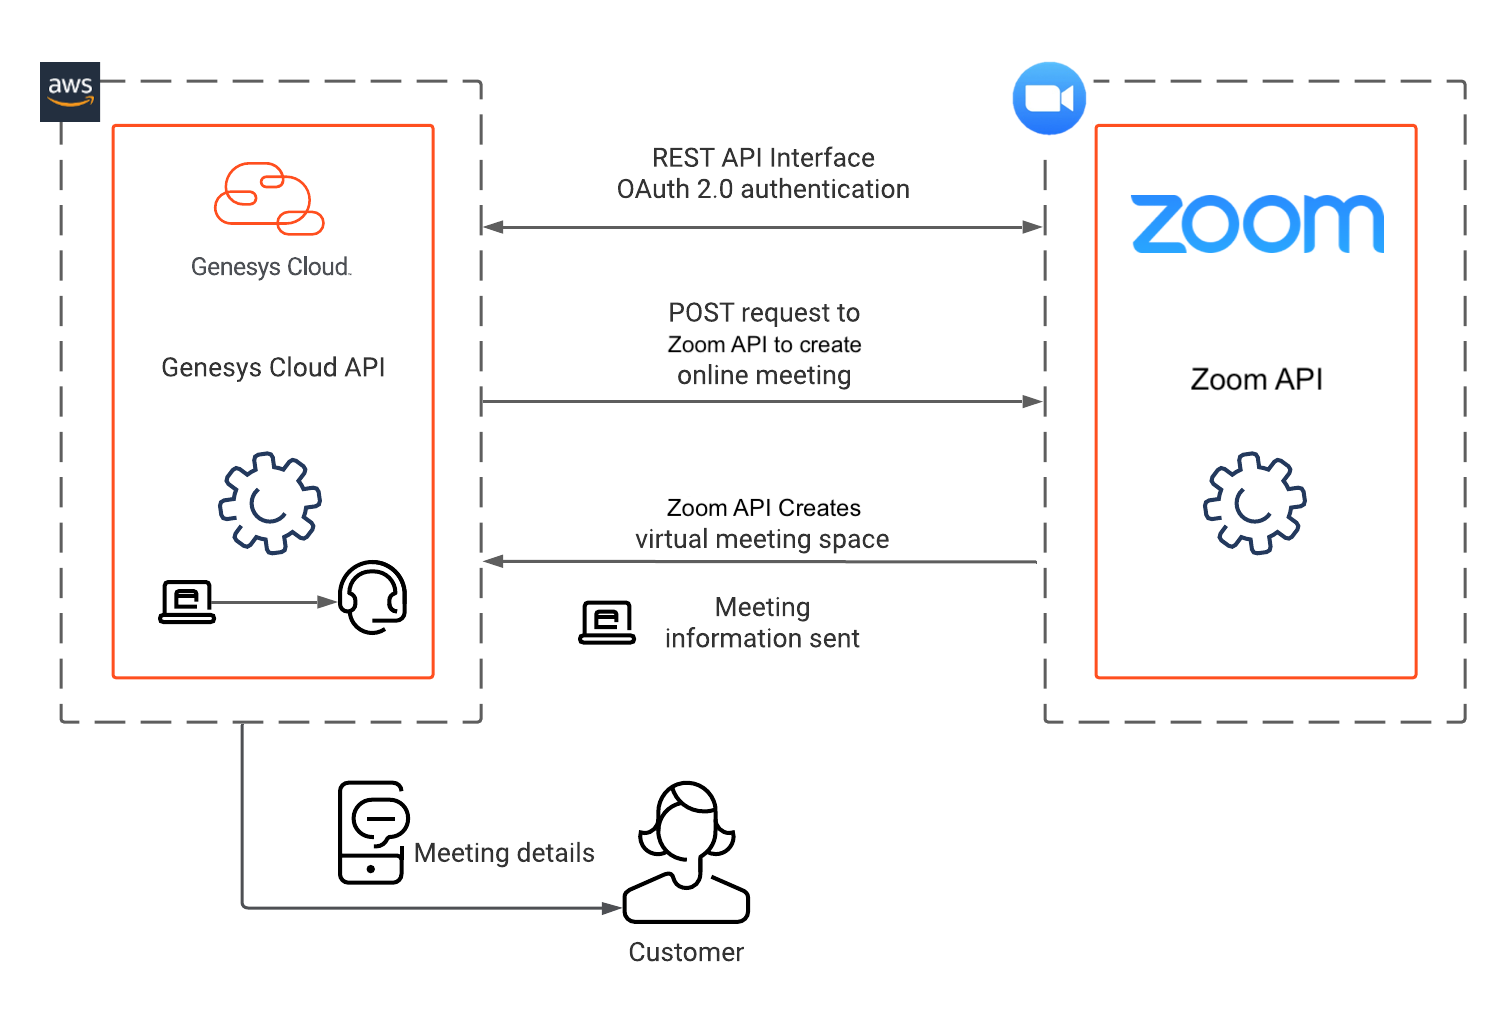
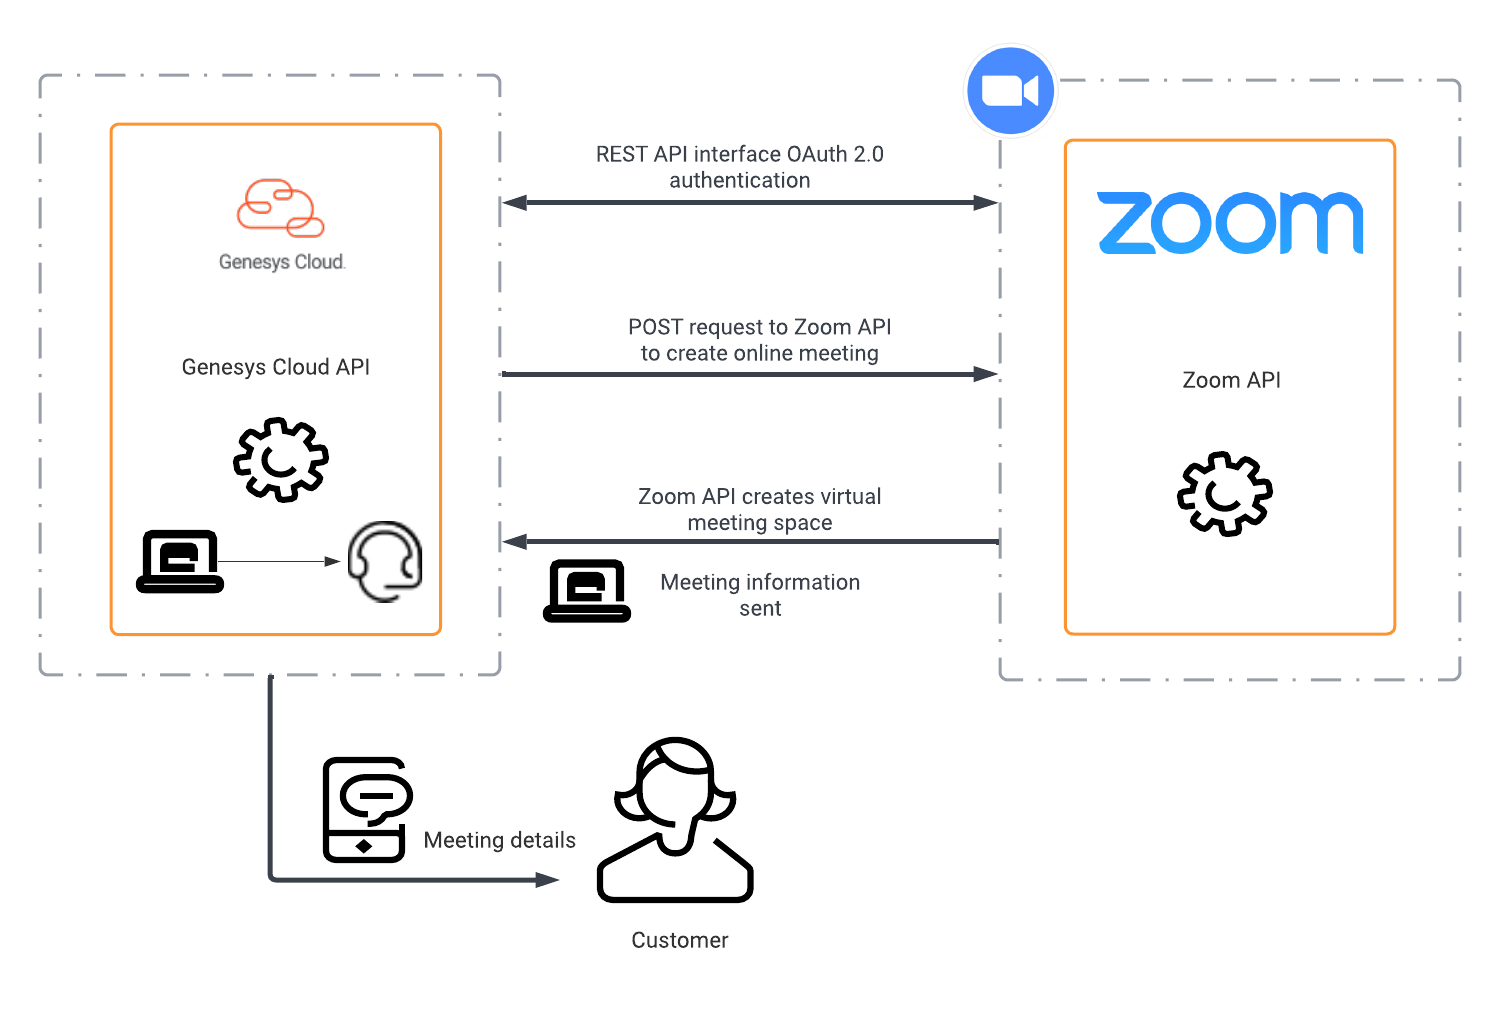
Updated README.md and index.md files, recreated zoom-architect.png file.

diff --git a/blueprint/index.md b/blueprint/index.md
@@ -1,12 +1,12 @@
 ---
-title: Set up Zoom meeting on Genesys Cloud
+title: Set up a Zoom meeting on Genesys Cloud
 author: yuri.yeti
 indextype: blueprint
 icon: blueprint
 image: images/6COpenScriptDropdown.png
 category: 6
 summary: |
-This Genesys Cloud Developer Blueprint describes how agents can schedule meetings with customers using Zoom and Genesys Cloud. Now agents can schedule a Zoom meeting right from Genesys Cloud. Genesys Cloud automatically sends the customer an SMS message with the meeting URL and opens Zoom for the agent. As long as the call is in a queue, it can be inbound or outbound.
+The Genesys Cloud Developer Blueprint describes how agents can schedule meetings with customers using Zoom and Genesys Cloud. Genesys Cloud sends an SMS message to the customer with a meeting URL and opens Zoom for the agent. Calls in a queue can be inbound or outbound as long as they are in a queue.
 ---
 
 :::{"alert":"primary","title":"About Genesys Cloud Blueprints","autoCollapse":false} 
@@ -17,17 +17,17 @@ For more details on Genesys Cloud blueprint support and practices,
 see our Genesys Cloud blueprint [FAQ](https://developer.genesys.cloud/blueprints/faq "Opens the Genesys Cloud Blueprint FAQ page") sheet.
 :::
 
-This Genesys Cloud Developer Blueprint describes how agents can schedule meetings with customers using Zoom and Genesys Cloud. Now agents can schedule a Zoom meeting right from Genesys Cloud. Genesys Cloud automatically sends the customer an SMS message with the meeting URL and opens Zoom for the agent. As long as the call is in a queue, it can be inbound or outbound.
+The Genesys Cloud Developer Blueprint describes how agents can schedule meetings with customers using Zoom and Genesys Cloud. Genesys Cloud sends an SMS message to the customer with a meeting URL and opens Zoom for the agent. Calls in a queue can be inbound or outbound as long as they are in a queue.
 
-The following illustration shows the meeting scheduling solution from an agent perspective.
+The following illustration shows the meeting scheduling solution from an agent's perspective.
 
-![Zoom agent view](images/zoom-workflow.png "Meeting scheduling solution to use Zoom from an agent's point of view")
+![Zoom agent view](images/zoom-workflow.png "Meeting scheduling solution using Zoom from an agent's point of view")
 
-The following is an example of the end-to-end experience customers and agent can expect from this blueprint.
+The following is an example of the end-to-end experience customers and agents can expect from this blueprint.
 
 ![Overview](images/ZoomVideoSMSBlueprint.gif "Overview")
 
-You can enable an agent to create a Zoom meeting from their Genesys Cloud agent UI. This is done by using the public APIs provided by Genesys Cloud and Zoom. The following illustration shows the Genesys Cloud and Zoom API calls.
+You can enable an agent to create a Zoom meeting from their Genesys Cloud agent UI. This is done by using Genesys Cloud and Zoom public APIs. The following illustration shows the Genesys Cloud and Zoom API calls.
 
 ![Zoom integration](images/zoom-architect.png "The API calls between Genesys Cloud and Zoom API")
 
@@ -43,7 +43,7 @@ You can enable an agent to create a Zoom meeting from their Genesys Cloud agent 
 ### Specialized knowledge
 
 * Administrator-level knowledge of Genesys Cloud
-* Administrator-level knowledge of Zoom
+* Administrator-level Zoom knowledge 
 * Experience with REST API authentication
 * Experience creating Genesys Cloud scripts
 
@@ -76,8 +76,8 @@ You can enable an agent to create a Zoom meeting from their Genesys Cloud agent 
 
 Register your custom application in Zoom to enable Genesys Cloud to authenticate and retrieve user information from the Zoom API.
 
-1. Log in to Zoom App Marketplace.
-2. From the drop-down menu, Select **Develop** and click **Build App** .
+1. Log in to the Zoom App Marketplace.
+2. From the drop-down menu, select **Develop** and click **Build App**.
 
 ![New registration for a Zoom app](images/ZoomBuildApp.png "Build Zoom App")
 
@@ -86,7 +86,7 @@ Register your custom application in Zoom to enable Genesys Cloud to authenticate
 ![Select JWT](images/ZoomSelectJWT.png "Select JWT")
 
 4. Name your app, select the type of app, turn off publishing in the Zoom App Marketplace, then click **Create**.
-5. From the drop-down menu, select **View JWT Token** .
+5. From the drop-down menu, select **View JWT Token**.
 6. In the **Expiration Time** section, set **Expire in:** to **Other** and enter an expiration date.
 7. Click **Copy**.
 
@@ -121,11 +121,11 @@ The following web services data actions integration enable communication from Ge
 
 8. Import authentication data action.
 
-The authentication data action is imported into a different data action. Genesys Cloud automatically creates **Custom Auth** data actions when you integrate a new web services data action within an organization.
+The authentication data action is imported into a different data action. Genesys Cloud automatically creates **Custom Auth** data actions when you integrate a new web service data action within an organization.
 
 9. Navigate to **Integrations** > **Actions** and open the **Custom Auth** data action.
 
-![Custom Auth data action associated with web services data actions integration](images/1ECustomAuthDataAction.png "Open the custom auth data action associated with web services data action")
+![Custom Auth data action associated with web services data action integration](images/1ECustomAuthDataAction.png "Open the custom auth data action associated with web services data action")
 
 10. Click **Viewing** at the bottom of the Custom Auth data action page to change the data action state from **Published** to **Draft**.
 11. From the [zoom-meetings-sms-blueprint](https://github.com/jasonwolfg/zoom-meetings-sms "Opens the zoom meetings sms") in the GitHub repository, download the auth data action file *Zoom-SMS-Video-Send-Web-Services-Data-Action-Auth.customAuth.json*. You can import this file into Genesys Cloud by saving it to your local desktop.
@@ -143,7 +143,7 @@ The authentication data action is imported into a different data action. Genesys
       **Note:** In the Publish Action window, click **Yes** to publish the data action. The import action only modifies the data action configuration, not its contract.
    :::
 
-15. Return to the web services data action integration and verify that the data action is in **Active** status.
+15. Return to the web services data action integration and verify that the data action is **Active** status.
 
 ### Use Genesys Cloud OAuth client to create a custom role
 
@@ -165,7 +165,7 @@ The authentication data action is imported into a different data action. Genesys
 ![Add Permissions to Custom Role](images/assignPermissionToCustomRole.png "Add Permissions to Custom Role")
 
 
-### Integrate Genesys Cloud data action with an OAuth client
+### Integrate Genesys Cloud data actions with an OAuth client
 
 A Genesys Cloud OAuth client must be configured to enable Genesys Cloud data requests to an organization.
 
@@ -191,7 +191,7 @@ A Genesys Cloud OAuth client must be configured to enable Genesys Cloud data req
 
 Zoom video session URLs are sent to customers via SMS from Genesys Cloud. This SMS capability can be enabled by integrating Genesys Cloud data actions.
 
-1. From Genesys Cloud, install the **Genesys Cloud Data Actions** integration. For more information, see [About the data actions integrations](https://help.mypurecloud.com/?p=209478 "Opens the Data Actions overview article").
+1. Install the **Genesys Cloud Data Actions** integration. For more information, see [About the data actions integrations](https://help.mypurecloud.com/?p=209478 "Opens the Data Actions overview article").
 
 ![Genesys Cloud Data Actions in Genesys Cloud integrations search](images/3AGenesysCloudDataActionInstall.png "Install Genesys Cloud data actions")
 
@@ -283,7 +283,7 @@ You need to import the script *Send-SMS-with-Zoom-Video-URL.script*, which refer
 10. Enter the desired value in the **user** Insert Variable field.
 
   :::primary
-  **Note:** As shown in the following example, the variable value creates a Zoom meeting through the agent's Zoom account. The agent's Genesys Cloud email address must match their Zoom email address for this to work. It is possible to define a static value here if you wish to use the same Zoom account regardless of which agent is on the interaction. This can  either be the email address or object ID of the person whose app is registered in the Zoom Activity Directory.
+  **Note:** As shown in the following example, the variable value creates a Zoom meeting through the agent's Zoom account. The agent's Genesys Cloud email address must match their Zoom email address for this to work. It is possible to define a static value here if you wish to use the same Zoom account regardless of which agent is on the interaction. This can be the email address or object ID of the person whose app is registered in the Zoom Activity Directory.
   :::
 
 11. Expand the Output variables for the first Data Action so that the url variables are mapped.
@@ -301,7 +301,7 @@ You need to import the script *Send-SMS-with-Zoom-Video-URL.script*, which refer
 
 15. Expand the input variables for the second Data Action.
 
-16. Enter one of your Genesys Cloud organization's purchased SMS Numbers In the **fromAddress** input variable field.
+16. In the **fromAddress** input variable field, enter one of your Genesys Cloud organization's purchased SMS Numbers.
 
  :::primary
  **Note:** The following resource provides detailed information on how to purchase an SMS number. The phone number must be entered in the format +11234567890.
@@ -309,26 +309,26 @@ You need to import the script *Send-SMS-with-Zoom-Video-URL.script*, which refer
 
  ![Define From Address Input Variable](images/mapSecondDataActionFromAddressVariable.png "Define From Address Input Variable")
 
-17. The remaining input variables of the second data action must match the following example.
+The remaining input variables of the second data action must match the following example.
 
  ![Map Second Data Action Input Variables](images/mapSecondDataActionVariables.png "Map Second Data Action Input Variables")
 
-18. Under the **Custom Action Name**, click **Save**.
+17. Under the **Custom Action Name**, click **Save**.
 
 ![Save Custom Action](images/saveScriptCustomAction.png "Save Custom Action")
 
-19. Click the **Script** drop-down menu and select **Save**.
+18. Click the **Script** drop-down menu and select **Save**.
 
 ![Save the script](images/saveScript.png "Save the script")
 
-20. Click the **Script** drop-down menu and select **Publish**.
+19. Click the **Script** drop-down menu and select **Publish**.
 
 ![Publish the script](images/6DPublishScript.png "Publish the script")
 
-21. Navigate to **Admin** > **Contact Center** > **Queues** and select the queue you would like to associate with this script.
+20. Navigate to **Admin** > **Contact Center** > **Queues** and select the queue you would like to associate with this script.
 
-22. Click the **Voice** tab.
-23. From the **Default Script** drop-down menu, select the "Send-SMS-with-Zoom-Video-URL" script.
+21. Click the **Voice** tab.
+22. From the **Default Script** drop-down menu, select the **Send-SMS-with-Zoom-Video-URL** script.
 
 ![Select Default Script](images/selectDefaultScriptForQueue.png "Select the Default Script")
 
@@ -336,9 +336,9 @@ You need to import the script *Send-SMS-with-Zoom-Video-URL.script*, which refer
 
 Within the data action, you can test the Create Zoom video meeting URL data action.
 
-1. Navigate to **Admin** > **Integrations** > **Actions** and select the Create Zoom Video Meeting data action.
+1. Navigate to **Admin** > **Integrations** > **Actions** and select **Create Zoom meeting** data action.
 
-2. Navigate to **Setup** > **Test**, enter your user, startTime, endTime and timeZone, then click **Run Action**.
+2. Navigate to **Setup** > **Test**, enter a **user**, **startTime**, **endTime** and **timeZone**, then click **Run Action**.
 
 :::primary
     **Note:** The startTime and endTime parameters must be in ISO-8601 format. The user parameter can be the Zoom user's ActiveDirect Object ID or email address.
@@ -348,12 +348,12 @@ Within the data action, you can test the Create Zoom video meeting URL data acti
 
 Within the data action, you can test the Send SMS data action.
 
-1. Navigate to **Admin** > **Integrations** > **Actions** and select the Send SMS data action.
+1. Navigate to **Admin** > **Integrations** > **Actions** and select **Send SMS** data action.
 
-2. Navigate to **Setup** > **Test**, enter your user, startTime, endTime and timeZone, and then click **Run Action**.
+2. Navigate to **Setup** > **Test**, enter a **user**, **startTime**, **endTime** and **timeZone**, then click **Run Action**.
 
 :::primary
-   **Note:** You must use one of the purchased SMS Numbers within your Genesys Cloud organization as the fromAddress parameter. For more information oh how to purchase an SMS number, refer to the following resources. The toAddressMessengerType must be "sms".
+   **Note:** You must use one of the purchased SMS Numbers within your Genesys Cloud organization as the fromAddress parameter. For more information on how to purchase an SMS number, refer to the following resources. The toAddressMessengerType must be "sms".
 :::
 
 ![Test the Send SMS data action](images/testSendSMSDataAction.png "Test the Send SMS deployment")

diff --git a/README.md b/README.md
@@ -1,8 +1,8 @@
 
-#  Zoom meeting on Genesys Cloud Blueprint
-> View the full [Zoom meeting on Genesys Cloud Blueprint article](https://developer.mypurecloud.com/blueprints/zoom-meetings-sms/) on the Genesys Cloud Developer Center.
+#  Set up a Zoom meeting on Genesys Cloud
 
-This Genesys Cloud Developer Blueprint explains how to set up Genesys Cloud and Zoom for agents to schedule a meeting with customers using Zoom. The agents can now directly schedule a Zoom meeting from Genesys Cloud. Genesys Cloud automatically sends an SMS message with the meeting URL to the customer and also opens the Zoom for the agent. The call can be either inbound or outbound as long it is in a queue.
-The following illustration shows the meeting scheduling solution from an agent’s point of view.
+The Genesys Cloud Developer Blueprint describes how agents can schedule meetings with customers using Zoom and Genesys Cloud. Genesys Cloud sends an SMS message to the customer with a meeting URL and opens Zoom for the agent. Calls in a queue can be inbound or outbound as long as they are in a queue.
 
 ![Zoom agent view](blueprint/images/zoom-workflow.png "Meeting scheduling solution to use Zoom from an agent's point of view")
+
+> View the full [Zoom meeting on Genesys Cloud Blueprint article](https://developer.mypurecloud.com/blueprints/zoom-meetings-sms/) on the Genesys Cloud Developer Center.
